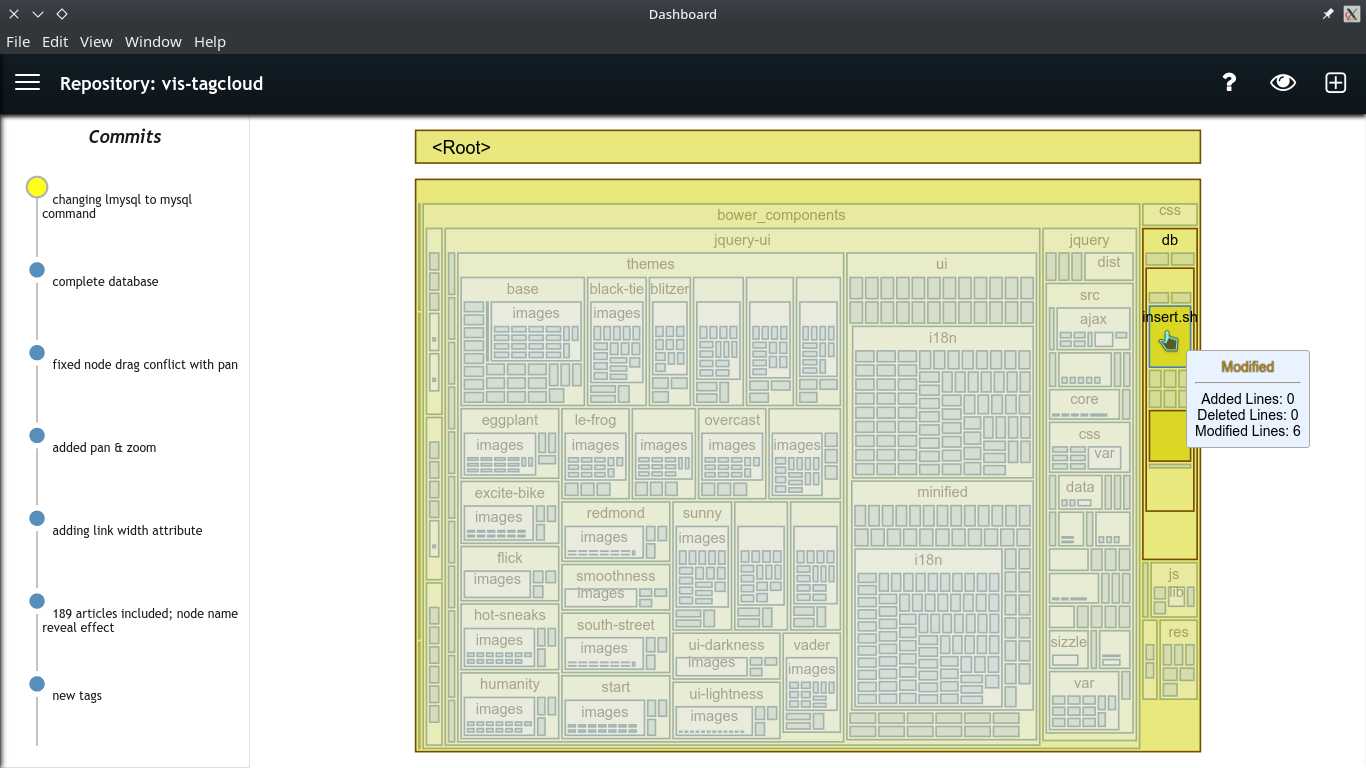
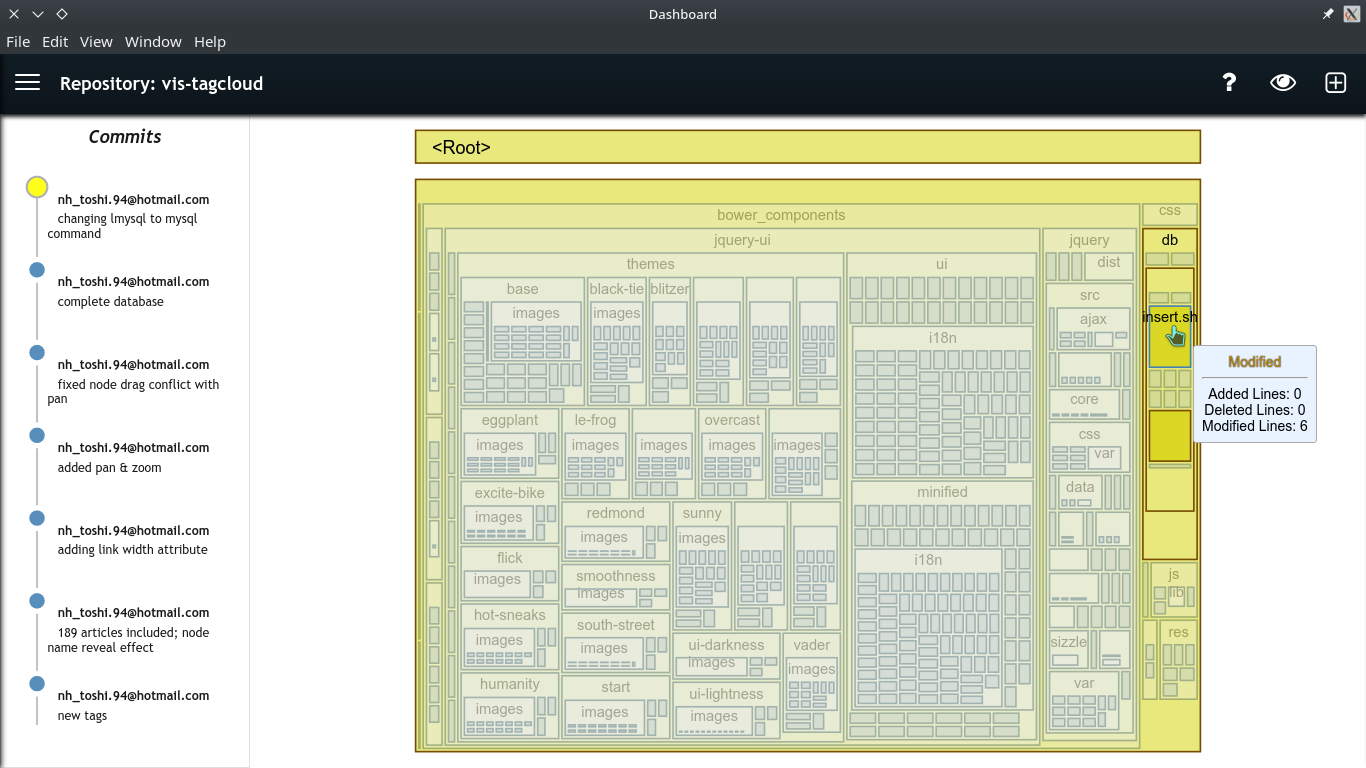
Changing tree node radius scale and adding author email to branch layout.

diff --git a/script/Branch.js b/script/Branch.js
@@ -162,7 +162,7 @@ Branch.prototype.update = function () {
     this.node.transition()
         .duration(300)
         .attr('transform', d => 'translate(' + d.x + ',' + d.y + ')');
-    
+
     this.nodeEnter = this.node.enter().append('g');
     this.nodeEnter.attr('id', d => d.id)
             .classed('node', true)
@@ -185,7 +185,7 @@ Branch.prototype.update = function () {
     this.nodeEnter.append('title')
         .text(d => d.id);
 
-    this.nodeEnter.append('foreignObject')
+    let nodeText = this.nodeEnter.append('foreignObject')
         .attr('width', (this.width - 30) + 'px')
         .attr('height', (this.gapY - 10) + 'px')
         .style('pointer-events', 'none')
@@ -193,9 +193,11 @@ Branch.prototype.update = function () {
         .style('pointer-events', 'none')
       .append('div')
         .style('pointer-events', 'none')
-        .classed('commitText', true)
-      .append('p')
-        .style('pointer-events', 'none')
+        .classed('commitText', true);
+    nodeText.append('span')
+        .classed('bold', true)
+        .html(d => d.authorEmail);
+    nodeText.append('span')
         .html(d => d.message);
 
     this.node.exit()

diff --git a/_sass/dashboard.scss b/_sass/dashboard.scss
@@ -244,7 +244,7 @@ body {
     border: 1px solid $lightBorder;
     width: $commitBarWidth;
     height: 100%;
-    overflow: auto;
+    overflow: hidden;
     z-index: 1;
     transition: opacity .3s ease;
     -webkit-transition: opacity .3s ease;
@@ -287,15 +287,20 @@ body {
         .commitText {
             font-size: 12px;
             overflow: hidden;
+            padding: 5px;
             pointer-events: none;
-            p {
-                margin: 0;
-                padding: 5px;
+            span {
+                display: block;
+                margin-bottom: 5px;
+                padding-left: 5px;
                 text-indent: 10px;
                 text-shadow: -1px 0 10px white,
                              1px 0 10px white,
                              0 -1px 10px white,
                              0 1px 10px white;
+            }
+            span.bold {
+                font-weight: bold;
             }
         }
     }

diff --git a/style/dashboard.css b/style/dashboard.css
@@ -231,7 +231,7 @@ body {
   border: 1px solid #DDD;
   width: 250px;
   height: 100%;
-  overflow: auto;
+  overflow: hidden;
   z-index: 1;
   transition: opacity .3s ease;
   -webkit-transition: opacity .3s ease;
@@ -274,13 +274,18 @@ body {
 #commitBar #branchSvg .commitText {
   font-size: 12px;
   overflow: hidden;
+  padding: 5px;
   pointer-events: none;
 }
-#commitBar #branchSvg .commitText p {
-  margin: 0;
-  padding: 5px;
+#commitBar #branchSvg .commitText span {
+  display: block;
+  margin-bottom: 5px;
+  padding-left: 5px;
   text-indent: 10px;
   text-shadow: -1px 0 10px white, 1px 0 10px white, 0 -1px 10px white, 0 1px 10px white;
+}
+#commitBar #branchSvg .commitText span.bold {
+  font-weight: bold;
 }
 
 #view {

diff --git a/script/Tree.js b/script/Tree.js
@@ -40,7 +40,7 @@ function Tree(container, width, height) {
     this.radiusScale = d3.scalePow()
         .exponent(0.5)
         .domain([0, 100000])
-        .range([3, 40])
+        .range([3, 80])
         .clamp(true);
 
     // Text showing on node label
@@ -453,8 +453,8 @@ Tree.prototype.update = function () {
                 return '<root>';
             }
         })
-        .attr('dx', d => 0)
-        .attr('dy', d => -this.radius(d) - 5);
+        .attr('dx', 0)
+        .attr('dy', d => (-this.radius(d) - 5) + 'px');
     this.nodeEnter.append('circle')
         .attr('r', 0)
         .transition()

diff --git a/script/dashboard.js b/script/dashboard.js
@@ -347,7 +347,7 @@ var initViz = function (repoPath) {
             let lastCommitId = commits[0].id;
             let container = d3.select('#commitBar');
             let commitWidth = 230;
-            let commitHeight = 570;
+            let commitHeight = 550;
             branch = new Branch(container, commitWidth, commitHeight);
             branch.clickCallback = d => {
                 if (d.id !== selectedCommitId) {
